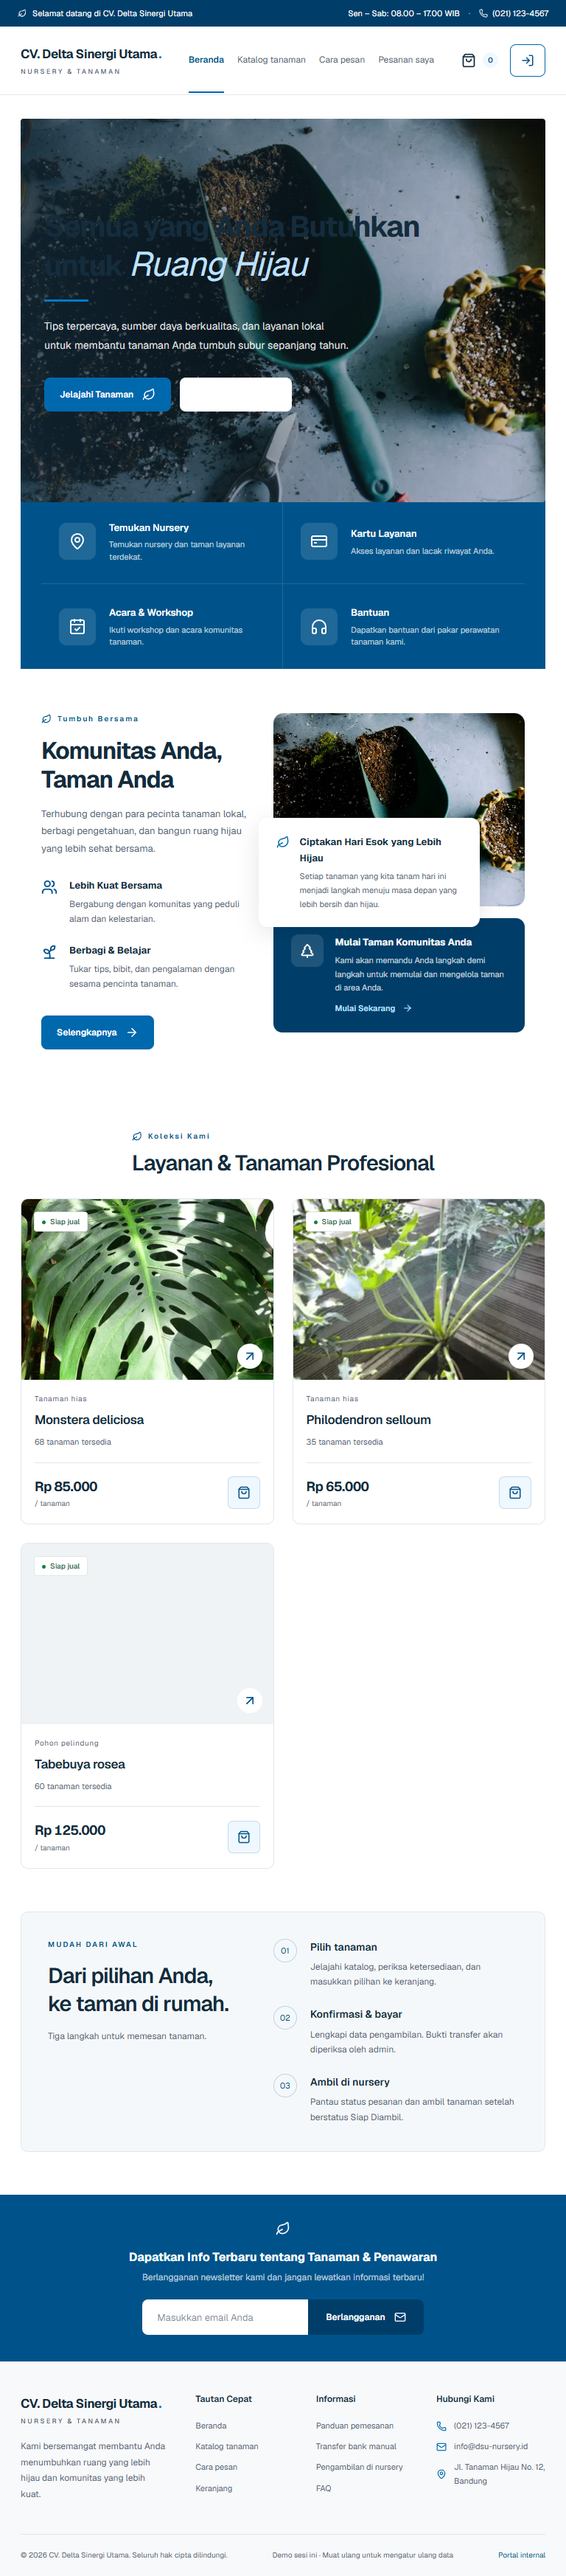
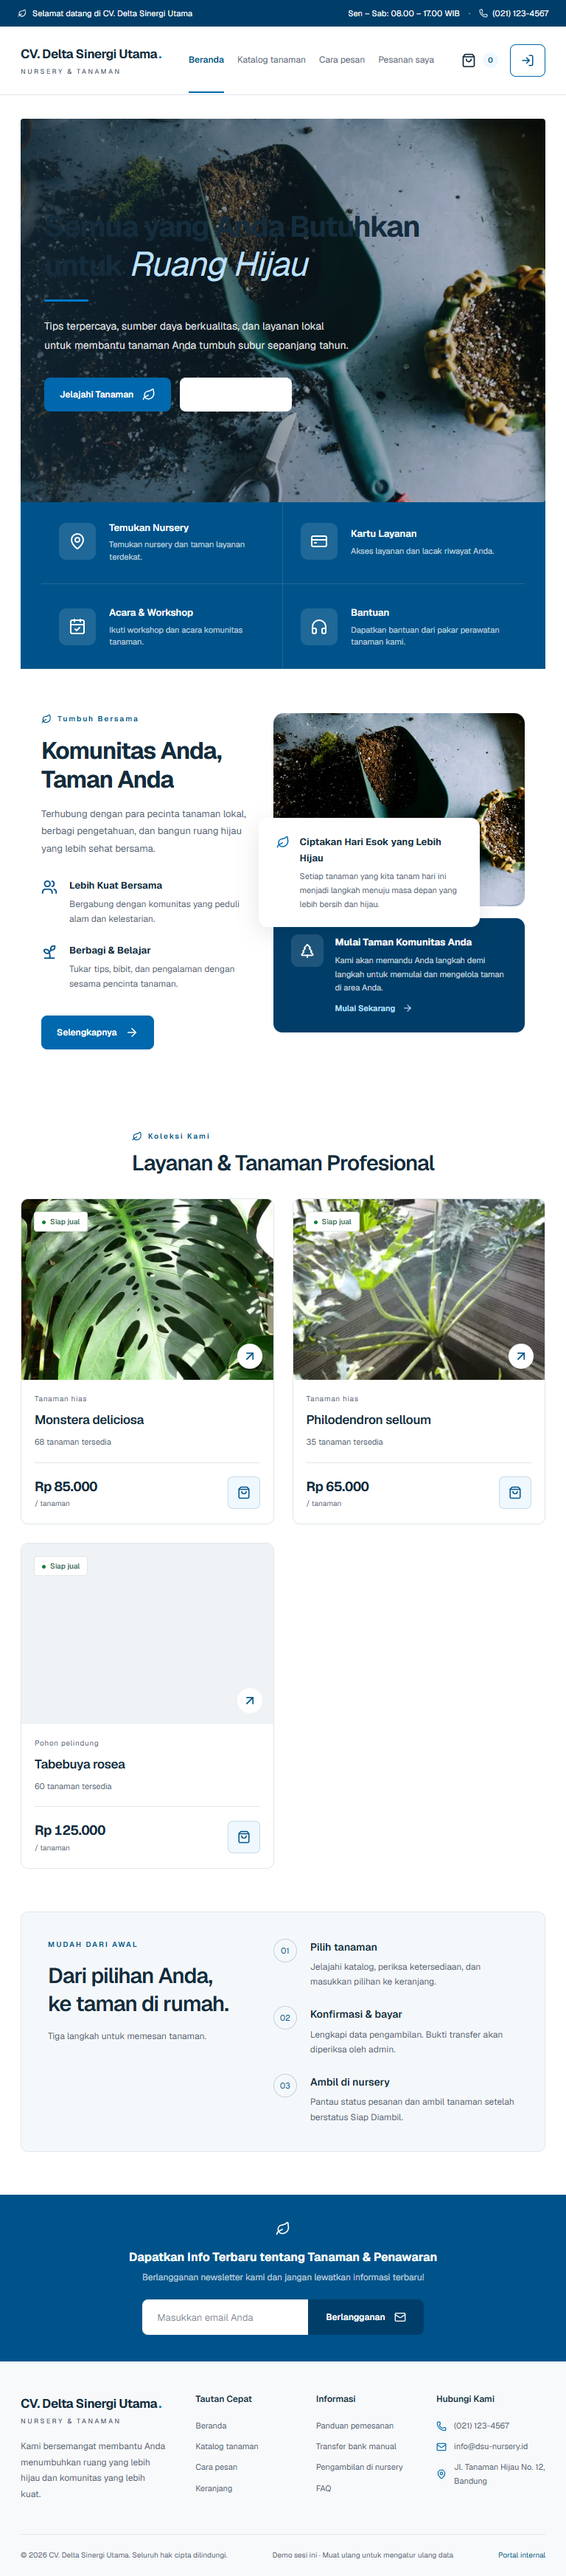
Constrain product photos to their grid columns

Changed region(s): [[0.0312, 0.4681, 0.9688, 0.5617]]

diff --git a/tests/customer.spec.ts b/tests/customer.spec.ts
@@ -140,6 +140,15 @@ test("customer pages remain within mobile, tablet and desktop viewports", async 
           () => document.documentElement.scrollWidth <= window.innerWidth,
         ),
       ).toBeTruthy();
+      if (route === "/katalog/monstera") {
+        expect(
+          await page.locator(".shop-photo.large").evaluate((photo) => {
+            const frame = photo.getBoundingClientRect();
+            const column = photo.parentElement!.getBoundingClientRect();
+            return frame.right <= column.right + 1;
+          }),
+        ).toBeTruthy();
+      }
       if (route === "/" || route === "/katalog/monstera")
         await page.screenshot({
           path: `docs/testing/customer-${route === "/" ? "home" : "detail"}-${width}.png`,

diff --git a/apps/web/features/storefront/storefront.css b/apps/web/features/storefront/storefront.css
@@ -620,6 +620,7 @@
 .shop-photo {
   position: relative;
   overflow: hidden;
+  width: 100%;
   min-height: 245px;
   aspect-ratio: 1.45;
   background: #eff3f5;
@@ -989,6 +990,9 @@
   min-width: 0;
   overflow-wrap: anywhere;
   padding: 14px 0;
+}
+.shop-detail > div {
+  min-width: 0;
 }
 .shop-detail h1 {
   font-size: 36px;
